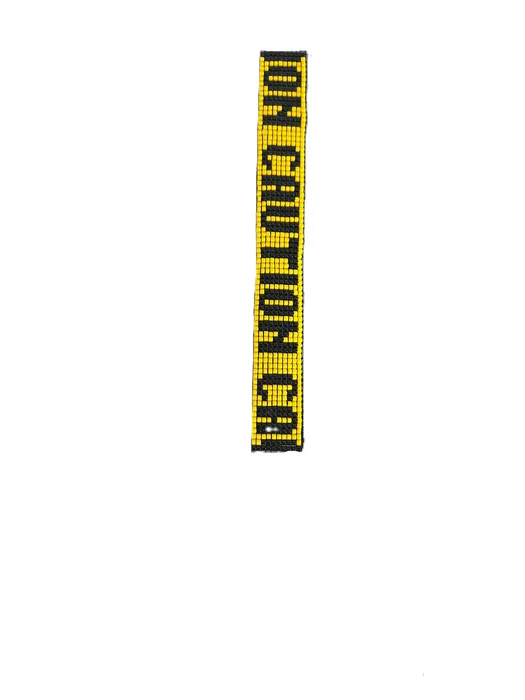
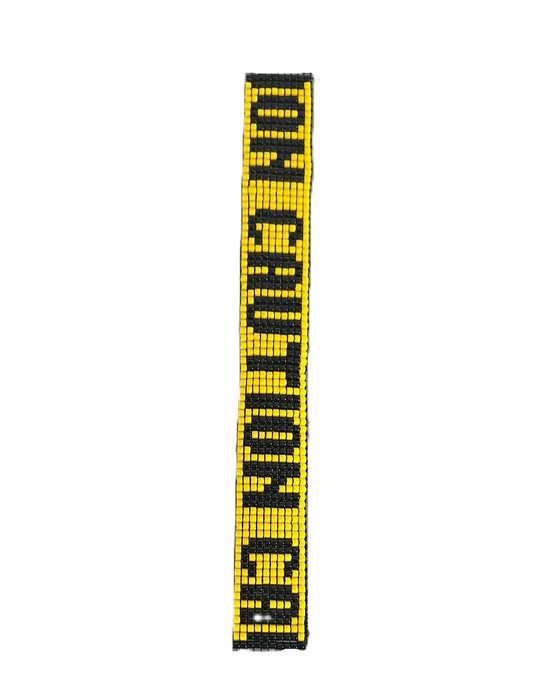
img edit

Changed region(s): [[0.4267, 0.06, 0.6095, 0.93]]

diff --git a/js/works.js b/js/works.js
@@ -51,10 +51,10 @@
  },
  {
   "id": "خطر",
-  "src": "img/works-view/%D8%AE%D8%B7%D8%B1.webp?v=muxx2oaq",
-  "thumb": "img/works-thumbs/%D8%AE%D8%B7%D8%B1.webp?v=muxx2oaq",
-  "w": 1920,
-  "h": 2560,
+  "src": "img/works-view/%D8%AE%D8%B7%D8%B1.webp?v=muxxy1mj",
+  "thumb": "img/works-thumbs/%D8%AE%D8%B7%D8%B1.webp?v=muxxy1mj",
+  "w": 1376,
+  "h": 1779,
   "title": "خطر",
   "note": "یه دستبند خاص برای خاصپسندها. اگه خاصپسند نیستی، نزدیک نشو!",
   "tags": [

diff --git a/index.html b/index.html
@@ -207,7 +207,7 @@
       <div class="foot-bot"><span>cara · دستبند منجوقی دستباف</span><a href="#" class="foot-top">↑ برگرد بالا</a></div>
     </footer>
     <script src="js/palette.js?v=32"></script>
-    <script src="js/works.js?v=muxxnzln"></script>
+    <script src="js/works.js?v=muxxyf55"></script>
     <script src="js/home.js?v=2"></script>
   <script src="js/delight.js?v=1" defer></script></body>
 </html>

diff --git a/gallery.html b/gallery.html
@@ -88,7 +88,7 @@
       </div>
     </dialog>
     <script src="js/palette.js?v=32"></script>
-    <script src="js/works.js?v=muxxnzln"></script>
+    <script src="js/works.js?v=muxxyf55"></script>
     <script src="js/gallery.js"></script>
     <script src="js/gallery-order.js"></script>
     <script src="js/delight.js?v=1" defer></script>
